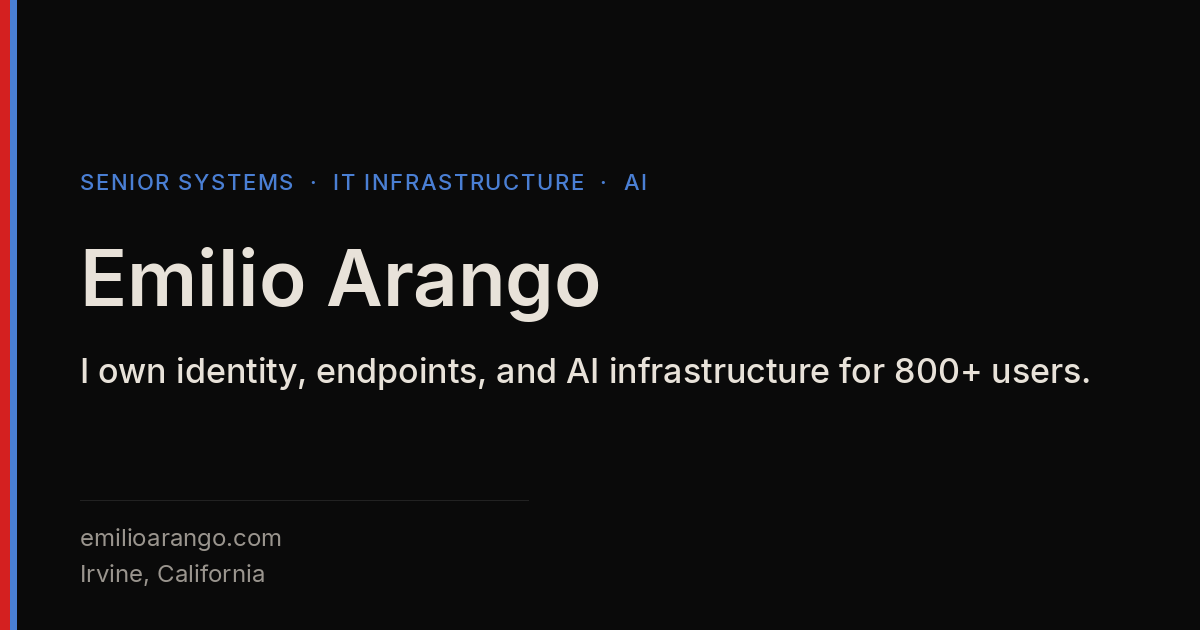
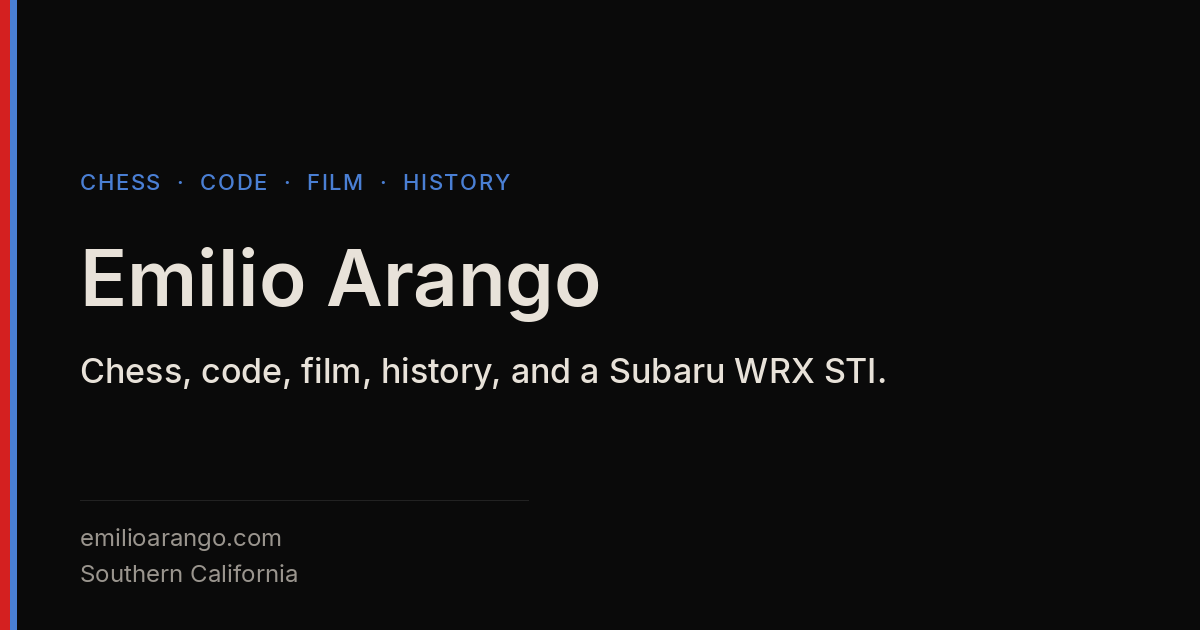
Recenter the site on Emilio, and keep work history on the resume.
The homepage is now who he is, what he cares about, and the chess engine. Restaurant365 and the experience section are off the front page. The resume still holds the jobs, including Defender and Mimecast.

diff --git a/src/config/index.ts b/src/config/index.ts
@@ -1,9 +1,9 @@
-import type { GlanceRow, NavLink, Role, SkillGroup, WorkItem } from "../types";
+import type { Interest, NavLink, Role, SkillGroup, WorkItem } from "../types";
 
 /**
- * Portfolio content for emilioarango.com.
- * Search for `todo: true` and `resume.todo` before publishing.
- * USERS is the only headcount that should appear on the site.
+ * Personal site content for emilioarango.com.
+ * Work history stays in EXPERIENCE and is rendered only on /resume.
+ * Search for `todo: true` and `PROJECT_TODO` / `resume.todo` before publishing.
  */
 const USERS = "800+";
 
@@ -16,63 +16,79 @@ export const SOCIAL = {
 
 export const SITE = {
   name: "Emilio Arango",
-  title: "Emilio Arango — Systems Administrator",
+  title: "Emilio Arango",
   jobTitle: "Systems Administrator",
   description:
-    "Systems administrator in Irvine. Owns Entra ID, Microsoft 365, Okta, Jamf, Intune, Microsoft Defender, and Mimecast for 800+ users at Restaurant365.",
+    "Emilio Arango, in Southern California. Chess, code, film, history, and a Subaru WRX STI.",
   url: "https://emilioarango.com",
   lang: "en",
   locale: "en_US",
   ogImage: "/og-image.png",
   ogImageAlt:
-    "Emilio Arango, systems administrator. He owns identity, endpoints, and AI infrastructure for 800+ users.",
-  location: {
-    locality: "Irvine",
-    region: "CA",
-    country: "US",
-  },
+    "Emilio Arango. Chess, code, film, history, and a Subaru WRX STI.",
   knowsAbout: [
-    "Microsoft Entra ID",
-    "Okta",
-    "Microsoft 365",
-    "Jamf",
-    "Microsoft Intune",
-    "Microsoft Defender",
-    "Mimecast",
-    "macOS",
-    "Windows",
-    "Endpoint management",
-    "Identity and access",
-    "High availability",
-    "Helpdesk automation",
+    "Chess",
+    "Artificial intelligence",
+    "Programming",
+    "Film",
+    "History",
+    "Motorsport",
   ],
 };
 
 export const NAV: NavLink[] = [
-  { text: "Skills", href: "#skills" },
-  { text: "Experience", href: "#experience" },
-  { text: "Work", href: "#work" },
   { text: "About", href: "#about" },
+  { text: "Interests", href: "#interests" },
+  { text: "Projects", href: "#projects" },
 ];
 
 export const HERO = {
-  kicker: "Senior systems · IT infrastructure · AI",
-  line: `I own identity, endpoints, and AI infrastructure for ${USERS} users.`,
-  meta: "Systems Administrator · Restaurant365 · Irvine, California · 2024–Present",
+  kicker: "Southern California",
+  line: "Chess, code, film, history, and a Subaru WRX STI.",
 };
 
-export const GLANCE: { role: string; place: string; rows: GlanceRow[] } = {
-  role: "Systems Administrator",
-  place: "Restaurant365 · Irvine",
-  rows: [
-    { label: "People", value: USERS },
-    { label: "Identity", value: "Entra ID, Okta" },
-    { label: "Endpoints", value: "Jamf, Intune" },
-    { label: "Security", value: "Defender, Mimecast" },
-    { label: "Fleet", value: "Mac and Windows" },
-    { label: "Automation", value: "AI helpdesk" },
-  ],
+export const ABOUT = {
+  body: "I'm Emilio Arango. I live in Southern California. I play chess, write code, watch films, read history, and drive a Subaru WRX STI.",
 };
+
+export const INTERESTS: Interest[] = [
+  {
+    name: "Chess",
+    summary: "A game I play, and one I have been teaching a computer to play.",
+  },
+  {
+    name: "AI and coding",
+    summary:
+      "Writing software, and using AI while I build. The chess engine is the piece anyone can open.",
+  },
+  {
+    name: "Film",
+    summary: "Getting lost in a good movie.",
+  },
+  {
+    name: "History",
+    summary:
+      "The long view, and what the last few millennia still have to say.",
+  },
+  {
+    name: "Motorsport",
+    summary: "The sport, and the Subaru WRX STI I drive.",
+  },
+];
+
+export const PROJECTS: WorkItem[] = [
+  {
+    name: "Chess engine",
+    context: "Python",
+    summary:
+      "A playable chess engine in pure Python: legal move generation, minimax with alpha-beta pruning, and piece-square tables. No dependencies.",
+    links: [{ label: "Source", href: SOCIAL.chessEngine }],
+    todos: [],
+  },
+];
+
+export const PROJECT_TODO =
+  "Add any other project you want on this page: a name, one sentence, and a link.";
 
 export const SKILLS: SkillGroup[] = [
   {
@@ -123,10 +139,6 @@ export const EXPERIENCE: Role[] = [
       {
         text: "Build AI-driven helpdesk automation that turns internal knowledge into self-serve tooling.",
       },
-      {
-        todo: true,
-        text: "Add one measured outcome for automation or availability (a count, a rate, or time saved). Use a real figure only.",
-      },
     ],
   },
   {
@@ -173,40 +185,12 @@ export const EXPERIENCE: Role[] = [
   },
 ];
 
-export const WORK: WorkItem[] = [
-  {
-    name: "AI helpdesk automation",
-    context: "Restaurant365 · Internal",
-    summary:
-      "Self-serve helpdesk tooling that turns Restaurant365’s internal knowledge into something employees can use themselves.",
-    links: [],
-    todos: [
-      "Name the tool or workflow.",
-      "Add the stack you are willing to share (platform, model, or scripts).",
-      "Add one real result for this project (a count, a rate, or time saved).",
-    ],
-  },
-  {
-    name: "Chess engine",
-    context: "Personal project · Python",
-    summary:
-      "A playable chess engine in pure Python: legal move generation, minimax with alpha-beta pruning, and piece-square tables. No dependencies.",
-    links: [{ label: "Source", href: SOCIAL.chessEngine }],
-    todos: [],
-  },
-];
-
-export const ABOUT = {
-  body: "I have spent my career in IT since 2015, from Genius Bar repairs to owning identity and endpoint platforms at Restaurant365. The work I want stays up and gets quieter: access that is clear, queues that shrink, and tools people can use on their own. Away from the keyboard I play chess, drive a Subaru WRX STI, and spend time with film and history.",
-  interests: ["Chess", "Subaru WRX STI", "Film", "History"],
-};
-
 export const RESUME = {
   href: "/resume",
   label: "Resume",
   title: "Resume — Emilio Arango",
   description:
-    "Resume of Emilio Arango, systems administrator at Restaurant365 in Irvine. Identity, endpoints, Microsoft 365, and AI helpdesk automation for 800+ users.",
+    "Resume of Emilio Arango, systems administrator at Restaurant365 in Irvine. Identity, endpoints, Microsoft 365, Defender, and Mimecast for 800+ users.",
   summary: `Systems administrator owning identity, endpoints, and AI infrastructure for ${USERS} users at Restaurant365 in Irvine. In IT since 2015, from the Apple Genius Bar through financial-services support and a restaurant service desk.`,
-  todo: "Add public/resume.pdf, then set resume.href in src/config/index.ts to /resume.pdf so the hero Resume button downloads a file. This page is the placeholder.",
+  todo: "Add public/resume.pdf, then set resume.href in src/config/index.ts to /resume.pdf so the Resume button downloads a file. This page is the placeholder.",
 };

diff --git a/src/styles/global.css b/src/styles/global.css
@@ -375,6 +375,24 @@
     font-size: 0.95rem;
   }
 
+  .aside-list {
+    list-style: none;
+    margin: 0.35rem 0 0.4rem;
+    padding: 0;
+  }
+
+  .aside-list li {
+    padding-block: 0.55rem;
+    border-top: 1px solid var(--color-line);
+    color: var(--color-ink);
+    font-size: 0.98rem;
+  }
+
+  .project-todo {
+    max-width: none;
+    margin-top: 1.25rem;
+  }
+
   .section {
     padding-block: 3.25rem;
     border-top: 1px solid var(--color-line);

diff --git a/src/types/index.ts b/src/types/index.ts
@@ -15,9 +15,9 @@ export interface SkillGroup {
   items: string[];
 }
 
-export interface GlanceRow {
-  label: string;
-  value: string;
+export interface Interest {
+  name: string;
+  summary: string;
 }
 
 export interface Role {

diff --git a/README.md b/README.md
@@ -1,8 +1,8 @@
 # Emilio Arango — personal site
 
-Recruiter-ready portfolio for Emilio Arango, systems administrator. Built with Astro and Tailwind CSS and deployed at [emilioarango.com](https://emilioarango.com).
+Personal site for Emilio Arango. Built with Astro and Tailwind CSS and deployed at [emilioarango.com](https://emilioarango.com).
 
-Copy, skills, and experience live in `src/config/index.ts`. Search that file for `todo: true` and `resume.todo` before publishing.
+The homepage is about him. Work history is only on `/resume`. Copy lives in `src/config/index.ts`. Search that file for `PROJECT_TODO` and `resume.todo` before publishing.
 
 ## Getting started
 
